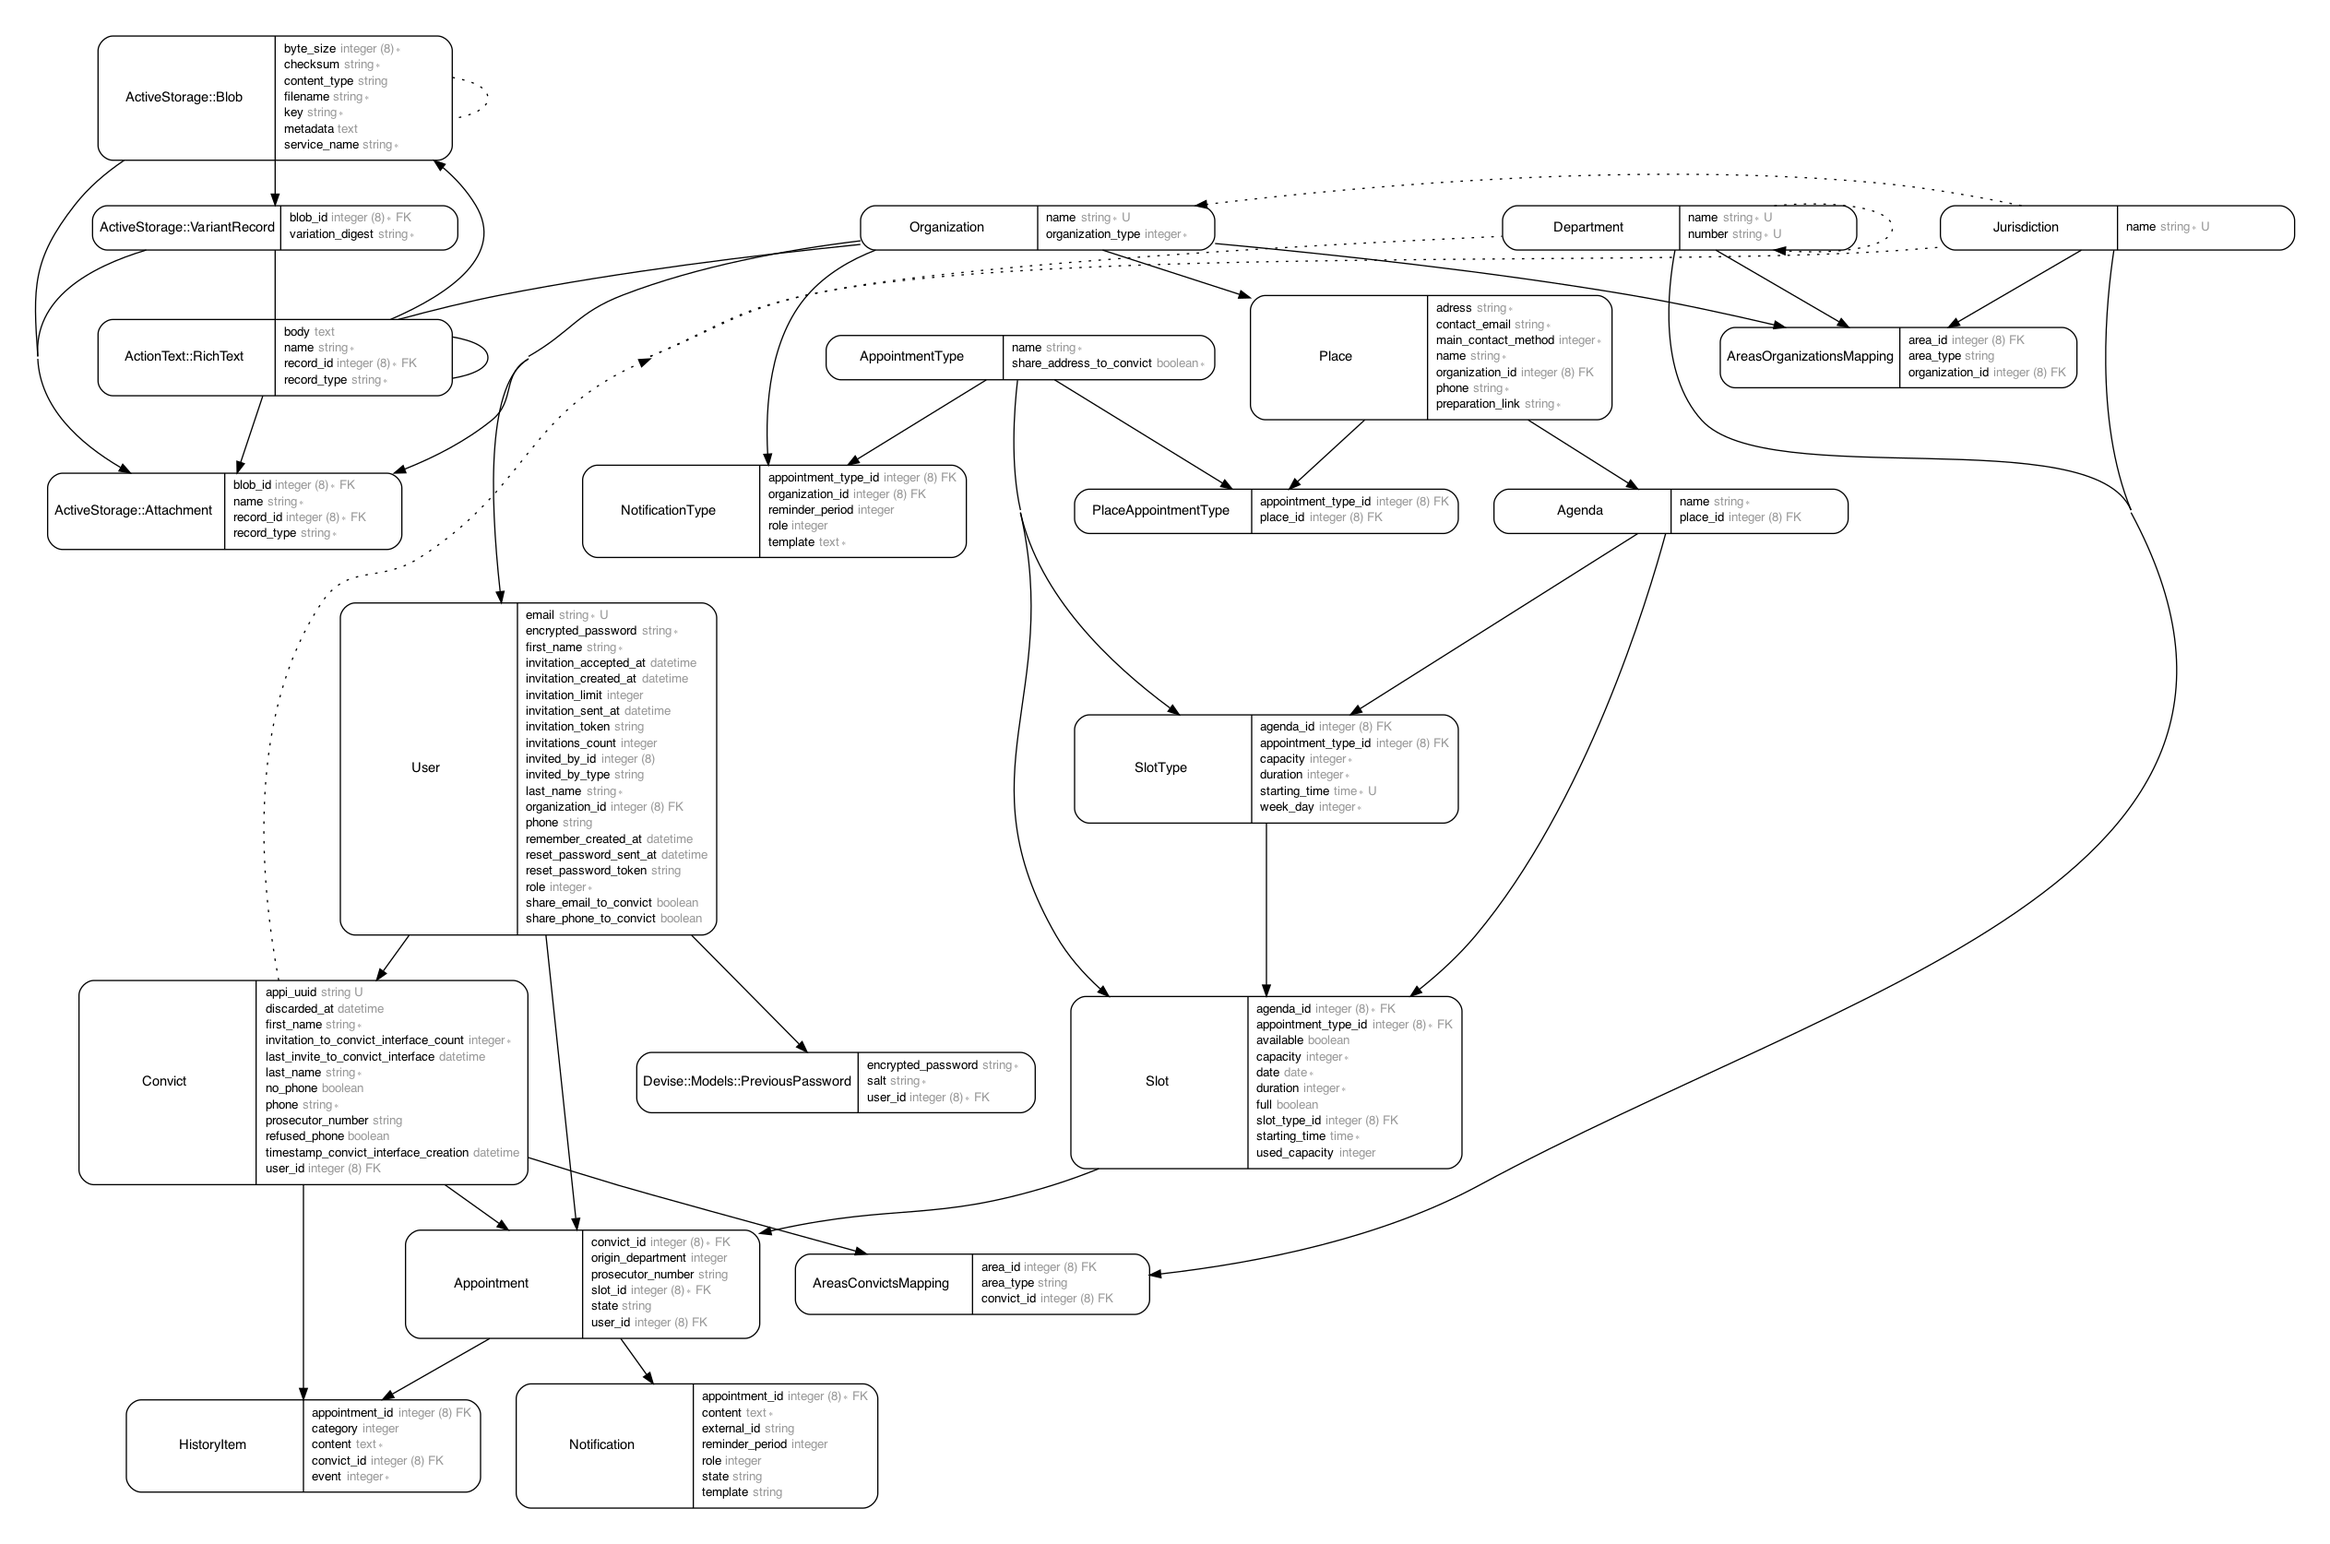
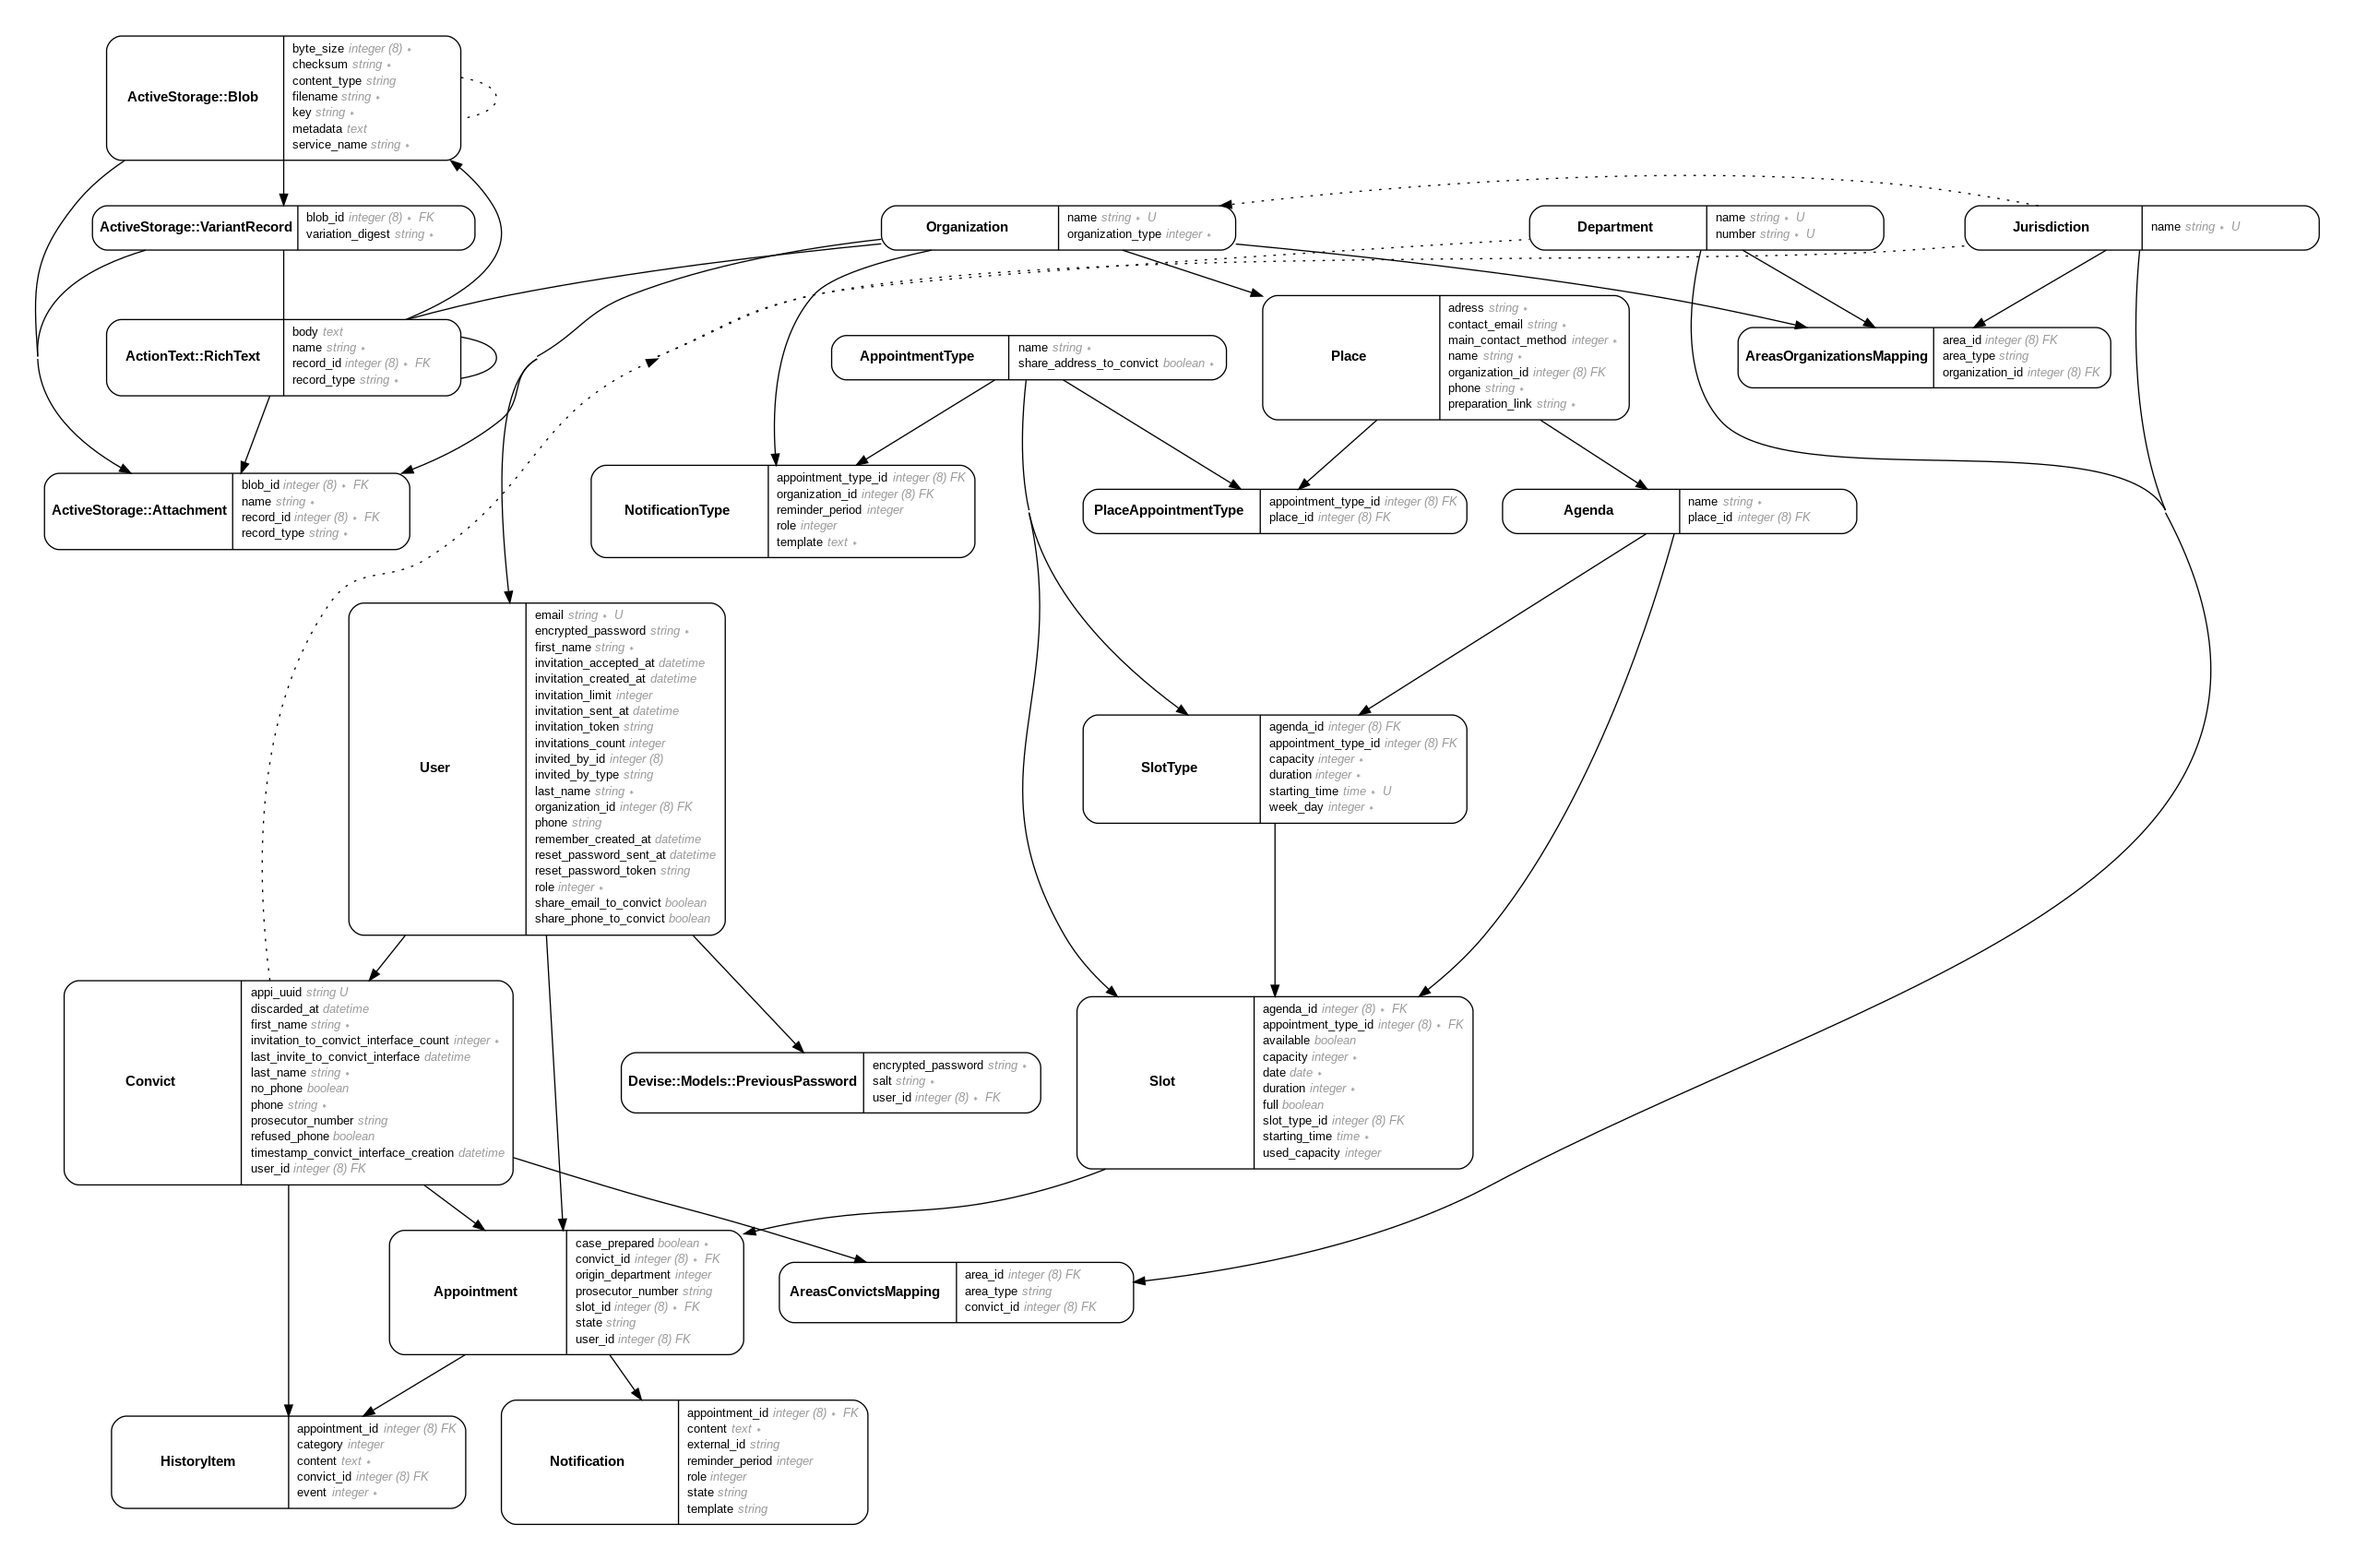
allow users to mark appointment as prepared

diff --git a/app/assets/stylesheets/bex.scss b/app/assets/stylesheets/bex.scss
@@ -1,6 +1,6 @@
 .bex-agendas-container {
-  width: 70%;
-  max-width: 800px;
+  width: 90%;
+  max-width: 900px;
   margin: auto;
   margin-bottom: 50px;
 
@@ -119,4 +119,8 @@
   @media print {
     display: none;
   }
+}
+
+.bex-agenda-case-prepared-form {
+  margin: auto;
 }

diff --git a/spec/features/slots_spec.rb b/spec/features/slots_spec.rb
@@ -2,18 +2,20 @@ require 'rails_helper'
 
 RSpec.feature 'Slots', type: :feature do
   before do
-    create_admin_user_and_login
+    @user = create_admin_user_and_login
     allow(Place).to receive(:in_department).and_return(Place.all)
   end
 
   describe 'index' do
     before do
+      place = create :place, organization: @user.organization
+      @agenda = create :agenda, place: place
       @apt_type = create(:appointment_type, name: "Sortie d'audience SPIP")
-      @slot1 = create(:slot, appointment_type: @apt_type, date: Date.civil(2025, 4, 14))
+      @slot1 = create(:slot, appointment_type: @apt_type, agenda: @agenda, date: Date.civil(2025, 4, 14))
     end
 
     it 'lists all slots' do
-      create(:slot, appointment_type: @apt_type, date: Date.civil(2025, 4, 16))
+      create(:slot, appointment_type: @apt_type, agenda: @agenda, date: Date.civil(2025, 4, 16))
 
       visit slots_path
 
@@ -109,13 +111,15 @@ RSpec.feature 'Slots', type: :feature do
 
   describe 'batch close' do
     it 'allows to select slots to close' do
+      place = create :place, organization: @user.organization
+      agenda = create :agenda, place: place
       apt_type = AppointmentType.create(name: "Sortie d'audience SPIP")
 
-      slot1 = create(:slot, appointment_type: apt_type, starting_time: new_time_for(9, 0))
-      slot2 = create(:slot, appointment_type: apt_type, starting_time: new_time_for(9, 0))
-      slot3 = create(:slot, appointment_type: apt_type, starting_time: new_time_for(9, 0))
-      slot4 = create(:slot, appointment_type: apt_type, starting_time: new_time_for(10, 0))
-      slot5 = create(:slot, appointment_type: apt_type, starting_time: new_time_for(10, 0))
+      slot1 = create(:slot, appointment_type: apt_type, agenda: agenda, starting_time: new_time_for(9, 0))
+      slot2 = create(:slot, appointment_type: apt_type, agenda: agenda, starting_time: new_time_for(9, 0))
+      slot3 = create(:slot, appointment_type: apt_type, agenda: agenda, starting_time: new_time_for(9, 0))
+      slot4 = create(:slot, appointment_type: apt_type, agenda: agenda, starting_time: new_time_for(10, 0))
+      slot5 = create(:slot, appointment_type: apt_type, agenda: agenda, starting_time: new_time_for(10, 0))
 
       visit slots_path
 

diff --git a/spec/features/bex_spec.rb b/spec/features/bex_spec.rb
@@ -88,13 +88,44 @@ RSpec.feature 'Bex', type: :feature do
       expect(page).not_to have_content('Vador')
       expect(page).not_to have_content('Cabinet Jaune')
     end
+
+    it 'allows user to mark a case as prepared', js: true do
+      convict = create(:convict, first_name: 'Julius', last_name: 'Erving')
+      create :areas_convicts_mapping, convict: convict, area: @department
+      apt_type = create(:appointment_type, name: "Sortie d'audience SAP")
+      place = create(:place, name: 'SPIP 91', organization: @organization)
+      agenda = create(:agenda, place: place, name: 'Agenda SPIP 91')
+
+      slot = create(:slot, :without_validations, agenda: agenda,
+                                                 appointment_type: apt_type,
+                                                 date: Date.today.next_occurring(:tuesday))
+
+      appointment = create(:appointment, slot: slot, convict: convict)
+      current_date = slot.date.strftime('%d/%m/%Y')
+
+      visit agenda_jap_path
+      # save_and_open_page
+      select current_date, from: :date
+      page.execute_script("$('#jap-appointments-date-select').trigger('change')")
+
+      expect(appointment.case_prepared).to eq(false)
+
+      check "case-prepared-#{appointment.id}"
+
+      appointment.reload
+
+      expect(appointment.case_prepared).to eq(true)
+    end
   end
 
   describe 'Spip appointment index' do
     let(:frozen_time) { Time.zone.parse('2021-08-01 10:00:00').to_date }
 
-    it "lists all Spip appointments of type Sortie d'audience SPIP", js: true do
+    before do
       allow(Date).to receive(:today).and_return frozen_time
+    end
+
+    it "lists all Spip appointments of type Sortie d'audience SPIP", js: true do
       convict1 = create(:convict, first_name: 'Julius', last_name: 'Erving')
       convict2 = create(:convict, first_name: 'Moses', last_name: 'Malone')
       convict3 = create(:convict, first_name: 'Darius', last_name: 'Garland')

diff --git a/db/schema.rb b/db/schema.rb
@@ -10,7 +10,7 @@
 #
 # It's strongly recommended that you check this file into your version control system.
 
-ActiveRecord::Schema.define(version: 2022_06_01_174932) do
+ActiveRecord::Schema.define(version: 2022_07_26_080727) do
 
   # These are extensions that must be enabled in order to support this database
   enable_extension "plpgsql"
@@ -77,6 +77,7 @@ ActiveRecord::Schema.define(version: 2022_06_01_174932) do
     t.integer "origin_department", default: 0
     t.string "prosecutor_number"
     t.bigint "user_id"
+    t.boolean "case_prepared", default: false, null: false
     t.index ["convict_id"], name: "index_appointments_on_convict_id"
     t.index ["slot_id"], name: "index_appointments_on_slot_id"
     t.index ["user_id"], name: "index_appointments_on_user_id"

diff --git a/app/controllers/appointments_controller.rb b/app/controllers/appointments_controller.rb
@@ -96,6 +96,16 @@ class AppointmentsController < ApplicationController
     redirect_back(fallback_location: root_path)
   end
 
+  def prepare
+    @appointment = policy_scope(Appointment).find(params[:appointment_id])
+    value = params["case-prepared-#{@appointment.id}"]
+
+    @appointment.case_prepared = value ? true : false
+    @appointment.save
+
+    authorize @appointment
+  end
+
   def display_places
     @appointment_type = AppointmentType.find(params[:apt_type_id])
     @places = policy_scope(Place).joins(:appointment_types).where(appointment_types: @appointment_type)

diff --git a/config/routes.rb b/config/routes.rb
@@ -13,7 +13,7 @@ Rails.application.routes.draw do
   resources :users do
     get :invitation_link
     get :reset_pwd_link
-  end 
+  end
 
   resource :user do
     resources :appointments, only: [:index], controller: 'users/appointments'
@@ -47,6 +47,7 @@ Rails.application.routes.draw do
     put 'miss'
     put 'excuse'
     put 'rebook'
+    put 'prepare'
   end
 
   get '/display_time_options' => 'appointments#display_time_options', as: 'display_time_options'

diff --git a/db/migrate/20220726080727_add_case_prepared_to_appointment.rb b/db/migrate/20220726080727_add_case_prepared_to_appointment.rb
@@ -1,0 +1,5 @@
+class AddCasePreparedToAppointment < ActiveRecord::Migration[6.1]
+  def change
+    add_column :appointments, :case_prepared, :boolean, default: false, null: false
+  end
+end

diff --git a/spec/factories/appointment.rb b/spec/factories/appointment.rb
@@ -4,6 +4,7 @@ FactoryBot.define do
     slot
     prosecutor_number { '302304' }
     state { 'created' }
+    case_prepared { false }
   end
 
   trait :with_notifications do

diff --git a/app/policies/appointment_policy.rb b/app/policies/appointment_policy.rb
@@ -67,6 +67,10 @@ class AppointmentPolicy < ApplicationPolicy
     appointment_fulfilment
   end
 
+  def prepare?
+    true
+  end
+
   private
 
   def appointment_workflow

diff --git a/docs/ajouter_un_type_de_rdv.md b/docs/ajouter_un_type_de_rdv.md
@@ -2,10 +2,10 @@
 
 1. Créer les données
 
-D'abord l'objet AppointmentType lui même :
+D'abord créer en console l'objet AppointmentType lui même :
 
 ```
-at = AppointmentType.create!(name: 'Convocation rappel SPIP')
+at = AppointmentType.create!(name: 'Action collective')
 ```
 
 puis tous les templates par défaut associés au nouveau type de rdv :
